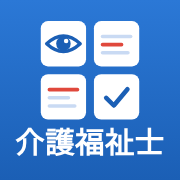
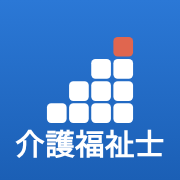
アイコンを「積み木の階段」デザインに変更（基礎から積み上げる）
Claude-Session: https://claude.ai/code/session_016zB87FXbD785uSkpdnPZnq

Changed region(s): [[0.0833, 0.1111, 0.9167, 0.8889], [0.8056, 0.6944, 0.8611, 0.7222], [0.1667, 0.8611, 0.2222, 0.8889]]

diff --git a/docs/sw.js b/docs/sw.js
@@ -1,6 +1,6 @@
 // オフラインでも開けるよう、アプリ本体をキャッシュする
 // 教材や画面を更新したら VERSION を上げる（古いキャッシュが入れ替わる）
-const VERSION = "v21";
+const VERSION = "v22";
 const CACHE = "matome-anki-" + VERSION;
 const FILES = ["./", "./index.html", "./manifest.webmanifest", "./icon-192.png", "./icon-512.png", "./apple-touch-icon.png"];
 

diff --git a/pwa/sw.js b/pwa/sw.js
@@ -1,6 +1,6 @@
 // オフラインでも開けるよう、アプリ本体をキャッシュする
 // 教材や画面を更新したら VERSION を上げる（古いキャッシュが入れ替わる）
-const VERSION = "v21";
+const VERSION = "v22";
 const CACHE = "matome-anki-" + VERSION;
 const FILES = ["./", "./index.html", "./manifest.webmanifest", "./icon-192.png", "./icon-512.png", "./apple-touch-icon.png"];
 
